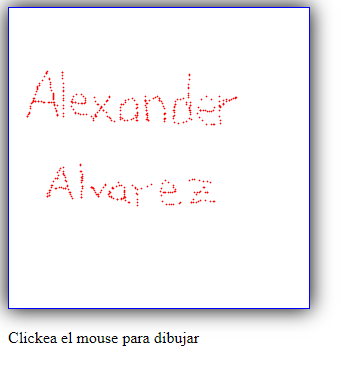
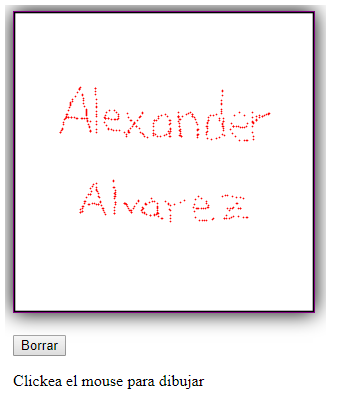
add new course, developed witheboard, and some fix and minor features

diff --git a/src/style.js b/src/style.js
@@ -114,7 +114,15 @@ let cursos = [
         desc: 'Tener una marca personal es fundamental para tu desarrollo profesional. Construir un portafolio de proyectos y fortalecer tu presencia online te ayudará a resaltar para ampliar tus oportunidades laborales, conseguir un mejor empleo o crear tu propio negocio.',
         linkCert: 'https://platzi.com/@jhonalexanderalvarezromero/curso/1220-marca-personal/diploma/detalle/',
     },
+    {
+        title: 'Curso de Computación Básica',
+        img: 'https://static.platzi.com/media/achievements/badge-computacion-basica-7bbb6f8a-04e3-4af2-82f2-8b8f2932ba04.png',
+        desc: '¿Eres principiante y quieres tener las bases para manejar tu computadora de manera autónoma? Inicia en el mundo de la computación y aprende a instalar programas en Windows 10. Envía correos, gestiona tu seguridad e identifica las partes básica de una computadora.',
+        linkCert: 'https://platzi.com/@jhonalexanderalvarezromero/curso/1741-computacion-basica/diploma/detalle/',
+    },
 ]
+
+
 
 var cursohtml = document.getElementById("cursosid");
 
@@ -123,12 +131,12 @@ function construyeCursos() {
     for (let i = 0; i < cursos.length; i++) {
         cursohtml.innerHTML += `<article class="event">
                                     <figure class="event-imageContainer">
-                                        <img class="event-image" src="${cursos[i]['img']}" alt="Imagen Curso" height="200">
+                                        <img class="event-image" src="${cursos[i]['img']}" rel="noreferrer" alt="Imagen Curso" height="200">
                                     </figure>
                                     <div class="event-details">
                                         <h3 class="event-title">${cursos[i]['title']}</h3>
                                         <p class="event-description">${cursos[i]['desc']}</p>
-                                        <a class="event-url" target="_blank" href="${cursos[i]['linkCert']}">Ver Certificado</a>
+                                        <a class="event-url" target="_blank" rel="noreferrer" href="${cursos[i]['linkCert']}">Ver Certificado</a>
                                     </div>
                                 </article>`
     }

diff --git a/Javascript/teclas/clic.js b/Javascript/teclas/clic.js
@@ -1,31 +1,60 @@
-document.addEventListener("click", dibujarMouse);
+document.addEventListener("mousedown", clickactivado);
+document.addEventListener("mouseup", clickSuelto);
+document.addEventListener("mousemove", dibujarMouse);
 
-// console.log(click);
+var rstboton = document.getElementById('btn').addEventListener('click', deleteDraw);
 
 //Otros eventos: 
 //mousedown, keyup y keydown 
-//click, dblclick, mouseup, mousedown.
+//click, dblclick.
 
 var cuadro = document.getElementById("maublero");
 var papel = cuadro.getContext("2d");
+const borderColor = "black";
+const pointColor = "green";
+const ancho = 1;
 
+var presionado = false;
+
+function clickactivado()
+{
+  presionado = true;
+}
+
+function clickSuelto() {
+  presionado = false;
+}
 
 function dibujarMouse(detalle)
 {
-  console.log(detalle)
-  var x = detalle.layerX;
-  var y = detalle.layerX;
-
-  dibujarPunto("red", detalle.layerX, detalle.layerY, papel);
+  if (presionado == true) {
+    console.log(detalle)
+    var x = detalle.layerX;
+    var y = detalle.layerX;
+    dibujarPunto(pointColor, detalle.layerX, detalle.layerY, papel);
+  }
 }
 
 function dibujarPunto(color, xi, yi, lienzo)
 {
-  lienzo.beginPath();
+  lienzo.beginPath(); //arrancar un trazo con javascript
   lienzo.strokeStyle = color;
-  lienzo.lineWidth = 1;
-  lienzo.moveTo(xi, yi);
-  lienzo.lineTo(xi + 1, yi + 1);
+  lienzo.lineWidth = ancho;
+  lienzo.moveTo(xi, yi); //$1 x $2 y  - desde
+  lienzo.lineTo(xi + 1, yi + 1); //traza un linea lineTO -  hasta
   lienzo.stroke();
   lienzo.closePath();
+}
+
+//Border
+for (let i = 0; i <= 300; i++) {
+  dibujarPunto(borderColor, 0 , i, papel);
+  dibujarPunto(borderColor, 299 , i, papel);
+  dibujarPunto(borderColor, i , 0, papel);
+  dibujarPunto(borderColor, i , 299, papel);
+}
+
+
+function deleteDraw(detalle) {
+  papel.clearRect(0, 0, cuadro.width, cuadro.height);
 }

diff --git a/index.html b/index.html
@@ -101,7 +101,7 @@
                 <h6 class="project-course">Componente Web</h6>
                 <p class="project-date"><small><strong>Fecha:</strong> 10/08/2019</small></p>
                 <p class="project-url"><small><strong>Realizado en: </strong><a href="Javascript\teclas\mouse.html" target="_blank">Canvas y Javascript</small> </a></p>
-                <p class="project-description"><small>Pizzarra web, en html, JavaScript con canvas, desde la cual podras escribir, aun esta en desarrollo, ya que la idea es que pueda usarse como un recolector de firmas, por lo que falta que funcione con los eventos del click y ver la forma tanto de que cargue una imagen predefinida, un boton para borrar todo y la posibilidad de guardar la imagen que se genere.</small></p>
+                <p class="project-description"><small>Pizzarra web, en html, JavaScript con canvas, desde la cual podras escribir, firmar o dibujar, boton de reset de el dibugo.</small></p>
               </div>
               <figure class="project-imageContainer">
                 <img class="project-image" src="src/imgs/whiteboard.png" alt="imagen de proyecto"/>

diff --git a/Javascript/teclas/teclas.js b/Javascript/teclas/teclas.js
@@ -6,11 +6,14 @@ var teclas = {
 };
 
 document.addEventListener("keyup", dibujarConElTeclado);
+
+//Otros eventos: 
+//keyup y keydown 
 var cuadrito = document.getElementById('area_de_dibujo');
 var papel = cuadrito.getContext("2d");
 var x = 150;
 var y = 150;
-var colorcito = "pink";
+var colorcito = "red";
 
 dibujarlinea(colorcito, x-1, y-1, x+1, y+1, papel);
 
@@ -27,7 +30,7 @@ function dibujarlinea(color, xinicial, yinicial, xfinal, yfinal, lienzo)
 
 function dibujarConElTeclado(evento)
 {
-  var movimiento = 1;
+  var movimiento = 15;
   switch (evento.keyCode) {
     case teclas.LEFT:
         dibujarlinea("colorcito", x, y, x - movimiento, y, papel);

diff --git a/Javascript/teclas/mouse.html b/Javascript/teclas/mouse.html
@@ -6,9 +6,11 @@
   </head>
   <body>
     <canvas id="maublero" width="300" height="300" style="
-    border: 1px solid blue;
+    border: 1px solid purple;
     box-shadow: 0px 0 20px 0px black;
 "></canvas>
+    <br><br>
+    <button id="btn">Borrar</button>
     <p>Clickea el mouse para dibujar</p>
     <script src = "clic.js"></script>
   </body>
